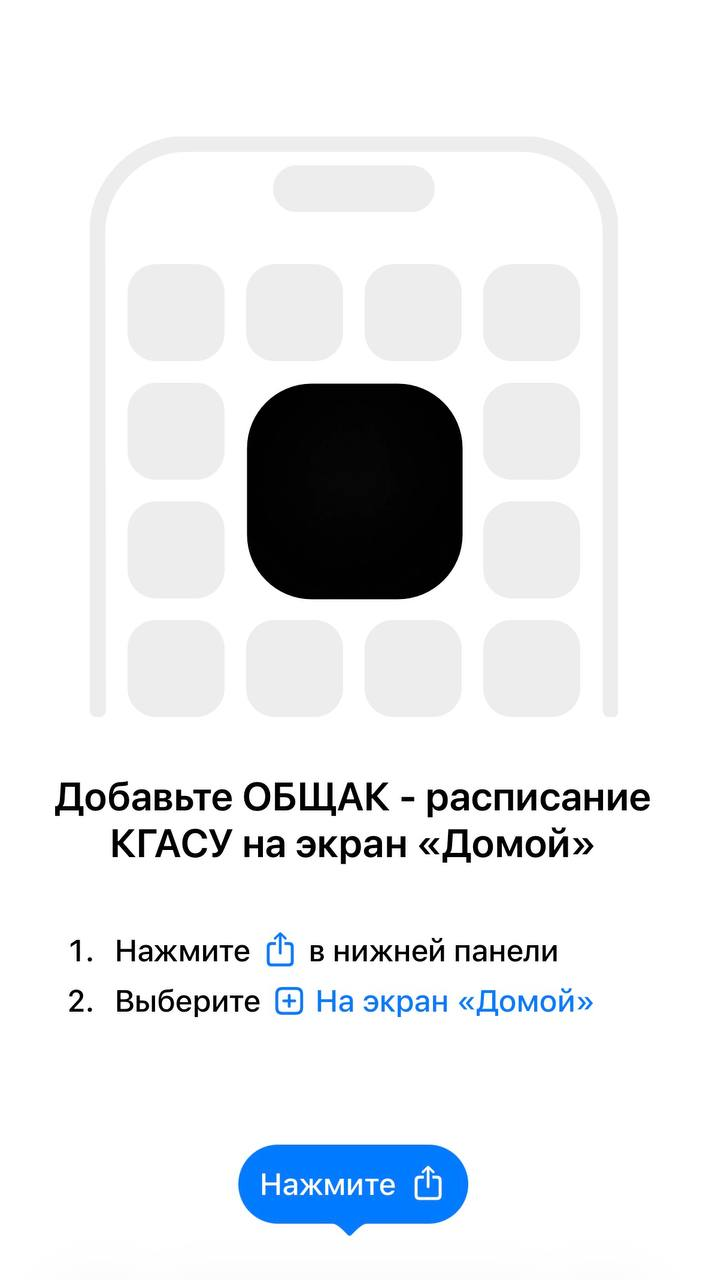
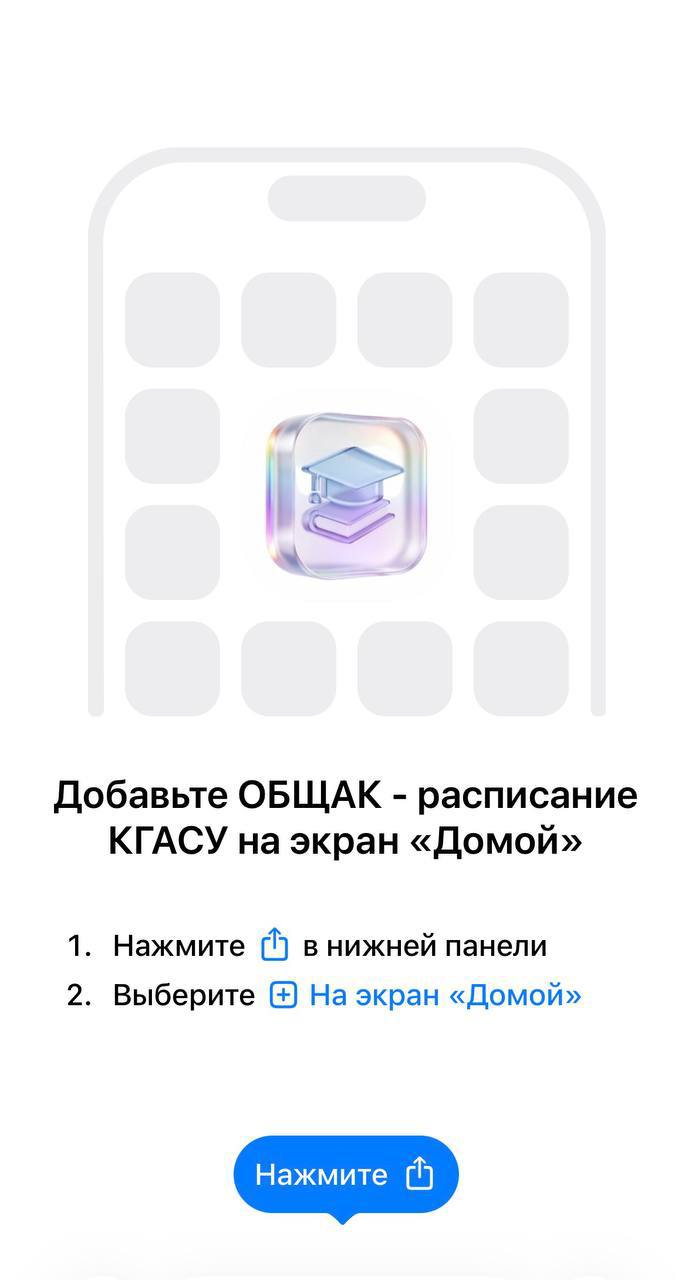
feat: security + cors

diff --git a/frontend/public/privacy.html b/frontend/public/privacy.html
@@ -1,0 +1,68 @@
+<!DOCTYPE html>
+<html lang="ru">
+  <head>
+    <meta charset="UTF-8" />
+    <meta name="viewport" content="width=device-width, initial-scale=1.0" />
+    <title>Политика конфиденциальности — Obshak</title>
+    <meta name="description" content="Политика конфиденциальности сервиса Obshak для студентов КГАСУ" />
+    <link rel="icon" href="/favicon.svg" type="image/svg+xml" />
+  </head>
+  <body style="font-family: system-ui, -apple-system, sans-serif; line-height: 1.6; max-width: 720px; margin: 0 auto; padding: 24px; color: #111">
+    <h1>Obshak — политика конфиденциальности</h1>
+    <p><strong>Последнее обновление:</strong> 2 июня 2026 г.</p>
+
+    <p>
+      Obshak — неофициальный сервис расписания и студенческих инструментов для КГАСУ.
+      Мы не связаны с университетом и не выдаём официальные документы от имени вуза.
+    </p>
+
+    <h2>Какие данные мы получаем</h2>
+    <ul>
+      <li>Данные профиля Telegram при входе (ID, имя, username, фото — если доступно).</li>
+      <li>Выбранная группа, институт, курс, семестр — для показа расписания.</li>
+      <li>Оценки преподавателей и отзывы об услугах — если вы их оставляете.</li>
+      <li>Технические данные: IP, тип устройства, время последней активности (для работы сервиса).</li>
+    </ul>
+
+    <h2>Зачем мы их используем</h2>
+    <ul>
+      <li>Вход через Telegram и сохранение вашего профиля.</li>
+      <li>Показ расписания, друзей, преподавателей и объявлений услуг.</li>
+      <li>Администрирование расписания и модерация (только для назначенных админов).</li>
+      <li>Улучшение стабильности и безопасности сервиса.</li>
+    </ul>
+
+    <h2>Кому мы передаём данные</h2>
+    <p>
+      Мы не продаём персональные данные. Данные хранятся на наших серверах и используются
+      только для работы Obshak. Telegram получает только то, что вы отправляете через бота
+      по правилам Telegram.
+    </p>
+
+    <h2>Хранение и удаление</h2>
+    <p>
+      Данные хранятся, пока вы пользуетесь сервисом. Чтобы запросить удаление аккаунта и данных,
+      напишите в Telegram: <a href="https://t.me/kgasu_schedule_bot">@kgasu_schedule_bot</a>.
+    </p>
+
+    <h2>Cookies и локальное хранилище</h2>
+    <p>
+      Сайт использует localStorage для темы оформления и сессии авторизации Supabase.
+      Рекламные или сторонние трекеры не используются.
+    </p>
+
+    <h2>Безопасность</h2>
+    <p>
+      Соединение с сайтом защищено HTTPS. Контакты по вопросам безопасности:
+      <a href="https://obshak.space/.well-known/security.txt">security.txt</a>.
+    </p>
+
+    <h2>Изменения</h2>
+    <p>
+      Мы можем обновлять эту страницу. Актуальная версия всегда доступна по адресу
+      <a href="https://obshak.space/privacy.html">https://obshak.space/privacy.html</a>.
+    </p>
+
+    <p><a href="https://obshak.space/">← Вернуться в Obshak</a></p>
+  </body>
+</html>

diff --git a/telegram-bot/bot_webhook_server.py b/telegram-bot/bot_webhook_server.py
@@ -28,6 +28,8 @@ TELEGRAM_MIN_DELAY_SECONDS = float(os.environ.get('TELEGRAM_MIN_DELAY_SECONDS', 
 
 from messages import get_bot_copy
 
+HELP_IMAGE = os.path.join(os.path.dirname(__file__), 'image.png')
+
 
 def _supabase_headers():
     return {
@@ -240,6 +242,81 @@ async def _telegram_post_json(path: str, payload: dict) -> dict | None:
     return None
 
 
+async def _telegram_post_multipart(path: str, form: aiohttp.FormData) -> dict | None:
+    session = _get_http_session()
+    if not session:
+        return None
+
+    url = f'{TELEGRAM_API}/bot{BOT_TOKEN}{path}'
+    timeout = aiohttp.ClientTimeout(total=HTTP_TIMEOUT_SECONDS)
+
+    for attempt in range(4):
+        try:
+            async with session.post(url, data=form, timeout=timeout) as resp:
+                data = await resp.json()
+                if resp.status == 429:
+                    retry_after = int(data.get('parameters', {}).get('retry_after', 1))
+                    await asyncio.sleep(max(1, retry_after))
+                    continue
+                if resp.status >= 500:
+                    await asyncio.sleep(min(2**attempt, 8))
+                    continue
+                return data
+        except asyncio.CancelledError:
+            raise
+        except Exception:
+            await asyncio.sleep(min(2**attempt, 8))
+    return None
+
+
+async def send_telegram_photo(
+    chat_id,
+    photo_path: str,
+    caption: str,
+    parse_mode='Markdown',
+    recipient_telegram_id=None,
+):
+    """Send photo via Telegram Bot API (multipart upload)."""
+    if not os.path.isfile(photo_path):
+        print(f'⚠ Help image not found: {photo_path}')
+        return await send_telegram_message(
+            chat_id, caption, parse_mode=parse_mode, recipient_telegram_id=recipient_telegram_id
+        )
+
+    try:
+        form = aiohttp.FormData()
+        form.add_field('chat_id', str(chat_id))
+        form.add_field('caption', caption)
+        if parse_mode:
+            form.add_field('parse_mode', parse_mode)
+        with open(photo_path, 'rb') as photo_file:
+            form.add_field(
+                'photo',
+                photo_file.read(),
+                filename=os.path.basename(photo_path),
+                content_type='image/png',
+            )
+
+        result = await _telegram_post_multipart('/sendPhoto', form)
+        if not result:
+            return None
+
+        if not result.get('ok'):
+            print(
+                f"⚠ Telegram sendPhoto failed: {result.get('error_code')} {result.get('description')}"
+            )
+
+        if recipient_telegram_id:
+            if result.get('ok'):
+                await set_blocked_status(recipient_telegram_id, False, '')
+            elif result.get('error_code') == 403:
+                await set_blocked_status(recipient_telegram_id, True, result.get('description', ''))
+        return result
+    except Exception as e:
+        print(f'❌ Error sending photo: {e}')
+        return None
+
+
 async def send_telegram_message(chat_id, text, keyboard=None, parse_mode='Markdown', recipient_telegram_id=None):
     """Send message via Telegram Bot API"""
     payload = {
@@ -307,12 +384,22 @@ async def handle_start(payload):
 
 async def handle_help_callback(payload):
     """Handle help callback"""
-    chat_id = payload.get('callback_query', {}).get('message', {}).get('chat', {}).get('id')
-    user = payload.get('callback_query', {}).get('from', {}) or {}
+    callback = payload.get('callback_query', {})
+    chat_id = callback.get('message', {}).get('chat', {}).get('id')
+    user = callback.get('from', {}) or {}
     copy = get_bot_copy(user.get('first_name', ''))
 
+    callback_id = callback.get('id')
+    if callback_id:
+        await _telegram_post_json('/answerCallbackQuery', {'callback_query_id': callback_id})
+
     recipient_telegram_id = user.get('id')
-    await send_telegram_message(chat_id, copy.help_message, recipient_telegram_id=recipient_telegram_id)
+    await send_telegram_photo(
+        chat_id,
+        HELP_IMAGE,
+        copy.help_message,
+        recipient_telegram_id=recipient_telegram_id,
+    )
 
 async def process_update(payload):
     """Process incoming update"""

diff --git a/telegram-bot/bot.py b/telegram-bot/bot.py
@@ -5,6 +5,8 @@ from telegram.ext import Application, CommandHandler, ContextTypes, CallbackQuer
 
 from messages import get_bot_copy
 
+HELP_IMAGE = 'image.png'
+
 # Загружаем переменные из .env
 load_dotenv()
 
@@ -54,7 +56,7 @@ async def help_callback(update: Update, context: ContextTypes.DEFAULT_TYPE):
     
     # Отправляем фото с инструкцией
     try:
-        with open('image.png', 'rb') as photo:
+        with open(HELP_IMAGE, 'rb') as photo:
             await query.message.reply_photo(
                 photo=photo,
                 caption=copy.help_message,
